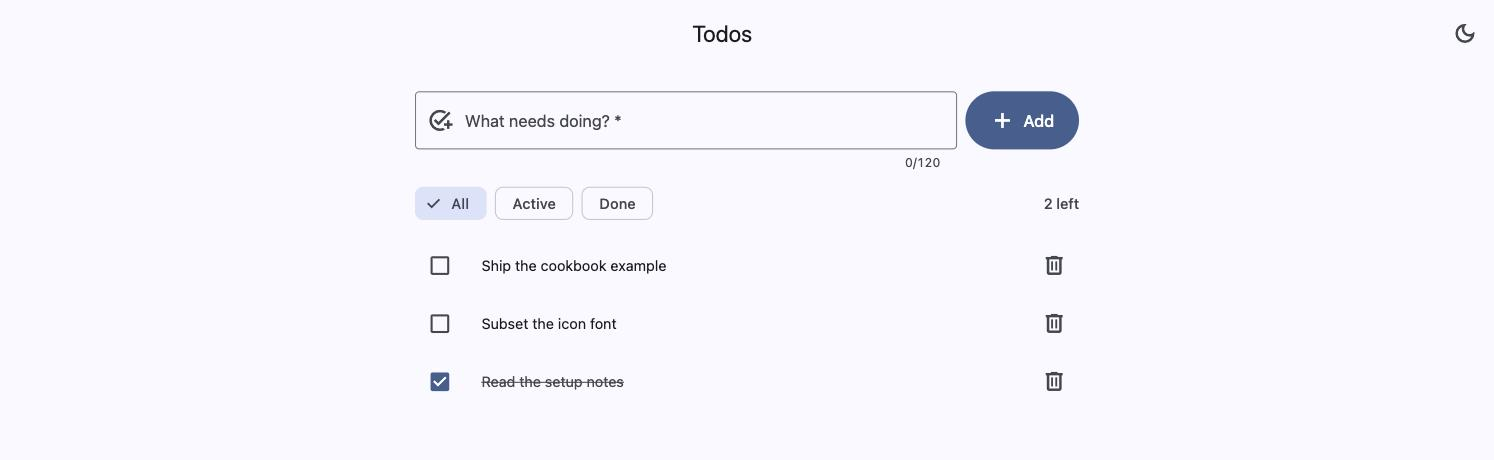
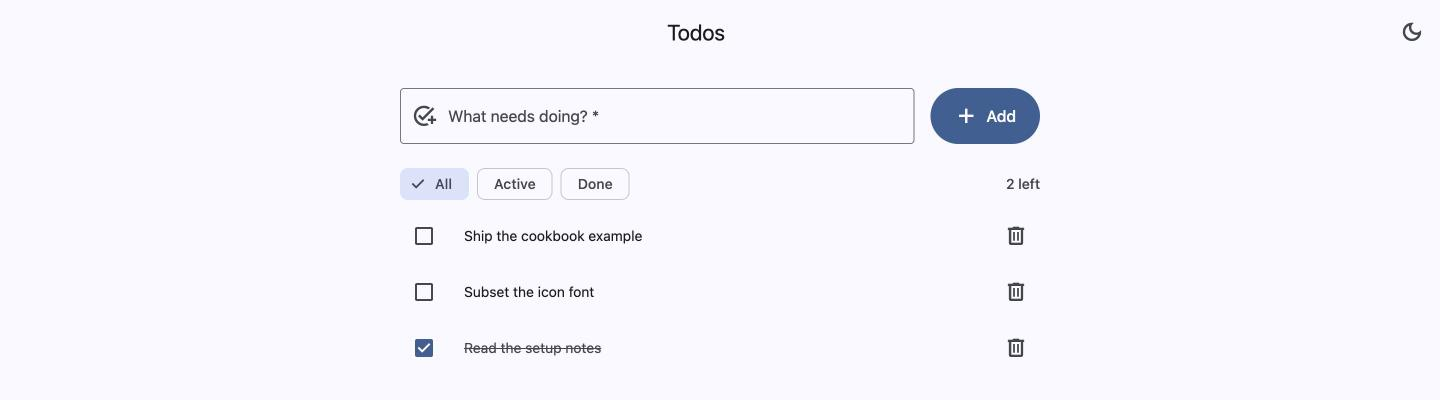
Tighten the todo sample's composer spacing and filter grouping
Three spacing fixes from a closer look at the layout:

  - The field and the Add button sat 8px apart, tight enough that the pill's
    curve made the negative space read as a wedge rather than a gap. 16px.
  - max-length put a permanent "0/120" counter under the field, which was both
    clutter and a 20px tail that left the field block 76px tall against the
    button's 56px. Dropped: the column has no length limit to advertise, and
    field and button now share a height and a baseline.
  - The filter row had 16px above and below, so it floated equally between the
    composer and the list it filters. 24 above, 8 below, so proximity says what
    it belongs to.

Screenshot regenerated to match.

diff --git a/material/todo-htmlx/app/templates/partials/panel.html b/material/todo-htmlx/app/templates/partials/panel.html
@@ -1,6 +1,7 @@
 {# Rendered inside the page, and returned on its own when a filter chip is clicked. #}
 <div id="panel">
-  <div class="flex items-center justify-between gap-4 py-4">
+  {# 24 above, 8 below: the filters belong to the list beneath them, not to the composer. #}
+  <div class="flex items-center justify-between gap-4 pt-6 pb-2">
     {# selection="single" keeps one chip selected as you click, so the optimistic
        state already matches what the server sends back — no second reflow. #}
     <material-chip-set selection="single">

diff --git a/material/todo-htmlx/app/templates/partials/composer_field.html b/material/todo-htmlx/app/templates/partials/composer_field.html
@@ -5,7 +5,6 @@
   name="title"
   label="What needs doing?"
   leading-icon="add_task"
-  max-length="120"
   required
   {% if error %}error error-text="{{ error }}"{% endif %}
   hx-on:input="this.removeAttribute('error'); this.removeAttribute('error-text')"

diff --git a/material/todo-htmlx/app/templates/index.html b/material/todo-htmlx/app/templates/index.html
@@ -2,7 +2,7 @@
 
 {% block content %}
   <form
-    class="flex items-start gap-2 pt-6"
+    class="flex items-start gap-4 pt-6"
     hx-post="/todos?filter={{ filter }}"
     hx-target="#todo-list"
     hx-swap="afterbegin"
